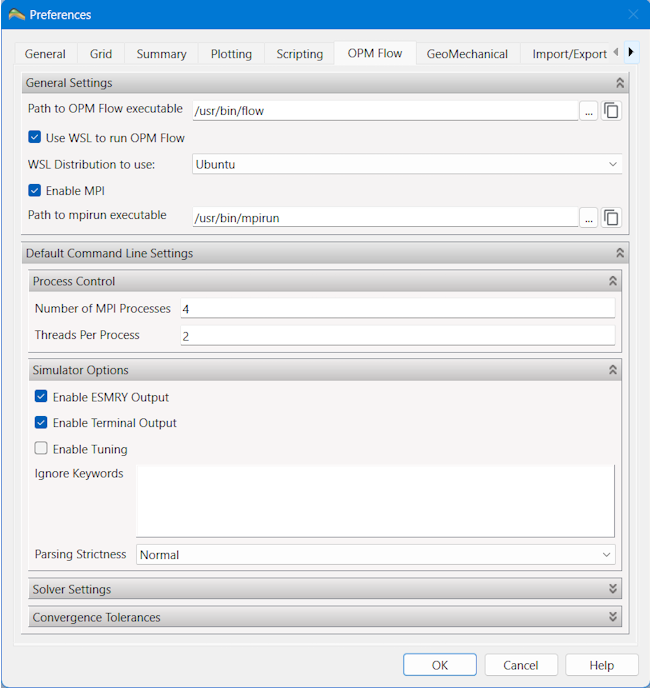
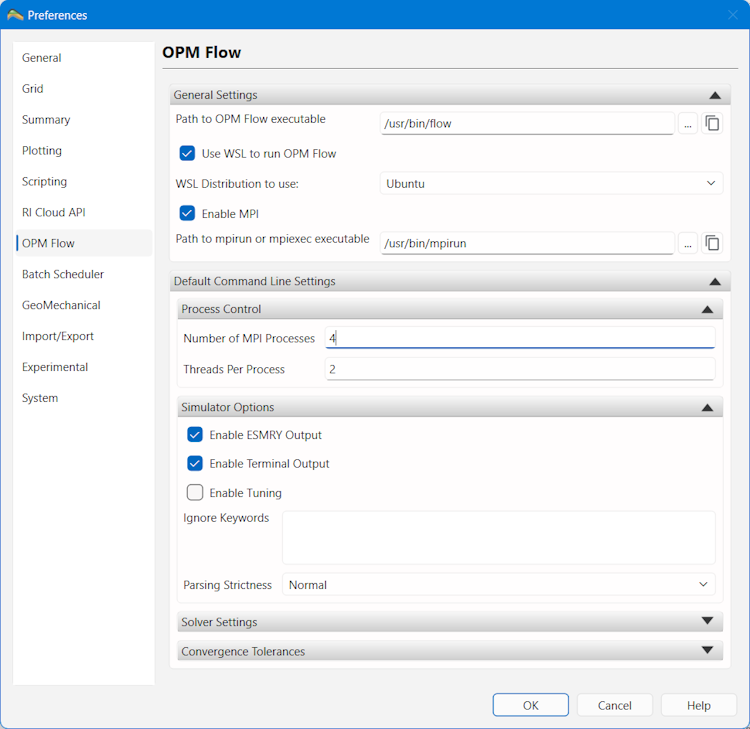
Add Batch Scheduler documentation

Changed region(s): [[0.0, 0.0, 1.0, 0.9144], [0.0, 0.9448, 1.0, 1.0], [0.4923, 0.2438, 0.5846, 0.2743]]

diff --git a/content/opm-flow-integration/RunningBatchScheduler.md b/content/opm-flow-integration/RunningBatchScheduler.md
@@ -1,0 +1,78 @@
++++
+title = "Using a batch scheduler"
+
+weight = 60
++++
+
+## Setting up
+
+ResInsight can launch OPM Flow simulation jobs using three different options:
+1. Run the simulation jobs on the local computer
+2. Submit the simulation jobs to a HPC cluster using IBM Spectrum LSF
+3. Submit the simulation jobs to a HPC cluster using Slurm workload manager
+
+To choose which method ResInsight should use, go to the ResInsight preferences and select the Batch Scheduler page:
+
+![ResInsight Preferences - Batch Scheduler](/images/opm-flow-integration/batchLocal.png)
+
+### Local computer
+
+When *Local computer* is selected, ResInsight will launch the OPM Flow executable on the same computer as ResInsight is running. You can set the maximum number OPM Flow simulation jobs to run at the same time by adjusting the setting in *Local Computer Options*. If you start more jobs than the specified limit, the remaining jobs will be queued and started once the number of running jobs falls below the limit.
+
+### Slurm
+
+When *Slurm* is selected, ResInsight will submit the OPM Flow jobs using the *sbatch* command.
+
+![ResInsight Preferences - Slurm Workload Manager](/images/opm-flow-integration/batchSlurm.png)
+
+Under *Batch Scheduler Options* you have the following options for Slurm:
+
+**Default queue/partition** - choose the partition you want ResInsight to submit the OPM Flow jobs to. You can click the *Select...* button get a list of the available partitions (read by ResInsight using the *sinfo* command )
+
+**Exclusive** - turn this option on to tell Slurm that you want exclusive access to the cluster nodes your jobs are assigned. No other jobs will be allowed to run on the nodes used to run your jobs even if there are available resources. Note that not all cluster configurations allows you to specify this.
+
+**Additional Slurm options** - here you can specify additional options that are required for your jobs, i.e. accounting information or memory requirements. The text entered here will be written without modification to a single *#SBATCH* line in the job launch script.
+
+### LSF
+
+WHen LSF is selected, ResInsight will submit the OPM Flow jobs using the *bsub* command. 
+
+![ResInsight Preferences - IBM Spectrum LSF](/images/opm-flow-integration/batchLSF.png)
+
+Under *Batch Scheduler Options* you have the following options for LSF:
+
+**Default queue/partition** - choose the queue you want ResInsight to submit the OPM Flow jobs to. You can click the *Select...* button get a list of the available partitions (read by ResInsight using the *bqueues* command )
+
+**Exclusive** - turn this option on to tell LSF that you want exclusive access to the cluster nodes your jobs are assigned. No other jobs will be allowed to run on the nodes used to run your jobs even if there are available resources. Note that not all cluster configurations allows you to specify this.
+
+**Additional LSF options** - here you can specify additional options that are required for your jobs, i.e. accounting information or memory requirements. The text entered here will be written without modification to a single *#BSUB* line in the job launch script.
+
+## Running OPM Flow simulation jobs
+
+When running OPM Flow jobs (described [here]({{% relref "RunningOpmFlowJobs" %}})), the only difference between a local job and a job submitted to a batch scheduler is that you will not get progress updates while the job is running, and that the log output of the job will not show up until after the job has completed (or failed for some reason).
+
+The job name used on the cluster will have a prefix "RI_", to show that the job was created by ResInsight.
+
+Note: Depending on how the batch scheduler on the cluster has been configured, there might be a delay between the job completing and ResInsight being notified that is has completed.
+
+## Stopping jobs
+
+When you stop a job (clicking the *Stop* button or using the *Stop job* right-click menu command), jobs running on a cluster will be stopped using either *bkill* (LSF) or *scancel* (Slurm). 
+
+Note: It might take a few seconds for ResInsight to get notified by the batch scheduler that the job has been stopped.
+
+## Monitor jobs running on a cluster
+
+A *Batch Queue Monitor* window is available in ResInsight. It allows you to monitor the jobs you have waiting and/or running on a cluster.
+
+![ResInsight Batch Monitor](/images/opm-flow-integration/batchMonitor.png)
+
+The monitor window is hidden by default, but can be shown by going to the main 3D Window's *Windows* menu and choosing *Windows -> Batch Queue Monitor*. The monitor will show up as a floating window by default, but can be docked at a suitable location in the main 3D Window.
+
+**Enable Job Monitor** - Enable this to start monitoring. Resinsight will run *squeue* (Slurm) or *bjobs* (LSF) at the selected interval to get a list of your jobs from the cluster
+
+**Only Show ResInsight Jobs** - Enable this to only show jobs that start with the ResInsight prefix "RI_".
+
+**Refresh Interval** - Choose how often ResInsight should refresh the job information. You can choose between 5, 10 and 30 seconds. On a busy cluster, it is recommended to not refresh the job information too often.
+
+Note: it is recommended to stop the job monitor when not needed, as it could put some additional, unnecessary load on the cluster system.

diff --git a/content/opm-flow-integration/RunningOpmFlowJobs.md b/content/opm-flow-integration/RunningOpmFlowJobs.md
@@ -21,6 +21,8 @@ Once the input data has been written, ResInsight will launch OPM Flow as specifi
 
 The resulting command line used to launch OPM Flow will be shown in the ResInsight *Messages* window.
 
+If a batch scheduler has been set up in [preferences]({{% relref "RunningBatchScheduler" %}}) the command line will be launched using that, otherwise it will be run locally.
+
 ### Monitor the job progress
 
 Once the OPM Flow process has been started, the ResInsight user interface will unblock, and you can use it as normal. The job properties of the started job will change into a running state, with two items available:
@@ -33,7 +35,7 @@ Once the OPM Flow process has been started, the ResInsight user interface will u
 
 ![Job Progress - OPM Flow](/images/opm-flow-integration/jobprogress.png)
 
-The Scripts/Jobs tree will show the job progress and the warning count found in the OPM Flow log output. Any line starting with either *Warning* or *Problem* is counted as a warning. 
+The Scripts/Jobs tree will show the job progress (only for local jobs) and the warning count found in the OPM Flow log output. Any line starting with either *Warning* or *Problem* is counted as a warning. 
 
 When the job has completed, *Done* will be shown in the progress field. If the job failed for some reason, the progress field will turn red, and if there are any log lines starting with *Error*, the error count will be shown. There could also be error messages shown in the ResInsight messages window.
 
@@ -41,7 +43,7 @@ When the job has completed, *Done* will be shown in the progress field. If the j
 
 ![Job Log - OPM Flow](/images/opm-flow-integration/joblog.png)
 
-The log output from an OPM Flow job could be inspected by right clicking the job and selecting *View Log...*. This can be done while the job is running or after it has failed or completed.
+The log output from an OPM Flow job could be inspected by right clicking the job and selecting *View Log...*. This can be done while the job is running if it is run locally or after it has failed or completed.
 
 Right clicking in the log window gives you the option to select all the text and copy it to the clipboard, so that you could copy it to a text editor for closer inspection.
 
@@ -61,4 +63,4 @@ If *Add to Ensemble* was not checked:
 
 ### Running multiple jobs
 
-ResInsight allows you to run as many jobs as you want at the same time, only limited by the available computing resources.
+ResInsight allows you to run as many jobs as you want at the same time, only limited by the available computing resources set up in the [batch scheduler preferences]({{% relref "RunningBatchScheduler" %}}).

diff --git a/content/opm-flow-integration/_index.md b/content/opm-flow-integration/_index.md
@@ -18,3 +18,5 @@ ResInsight handle OPM Flow simulation runs as "Jobs", allowing you to:
 Both grid results and summary results from a simulation job could be automatically loaded and displayed in ResInsight after a run.
 
 A sector model can be exported from an existing grid and directly connected to a new OPM Flow simulation job. See [Sector Model Export]({{% relref "SectorModelExport" %}}) for details.
+
+OPM Flow simulations could be run locally on the same computer as ResInsight (optionally using WSL on Windows), or ResInsight can submit simulation jobs to a batch scheduler such as IBM Spectrum LSF or [Slurm](https://slurm.schedmd.com/overview.html).
